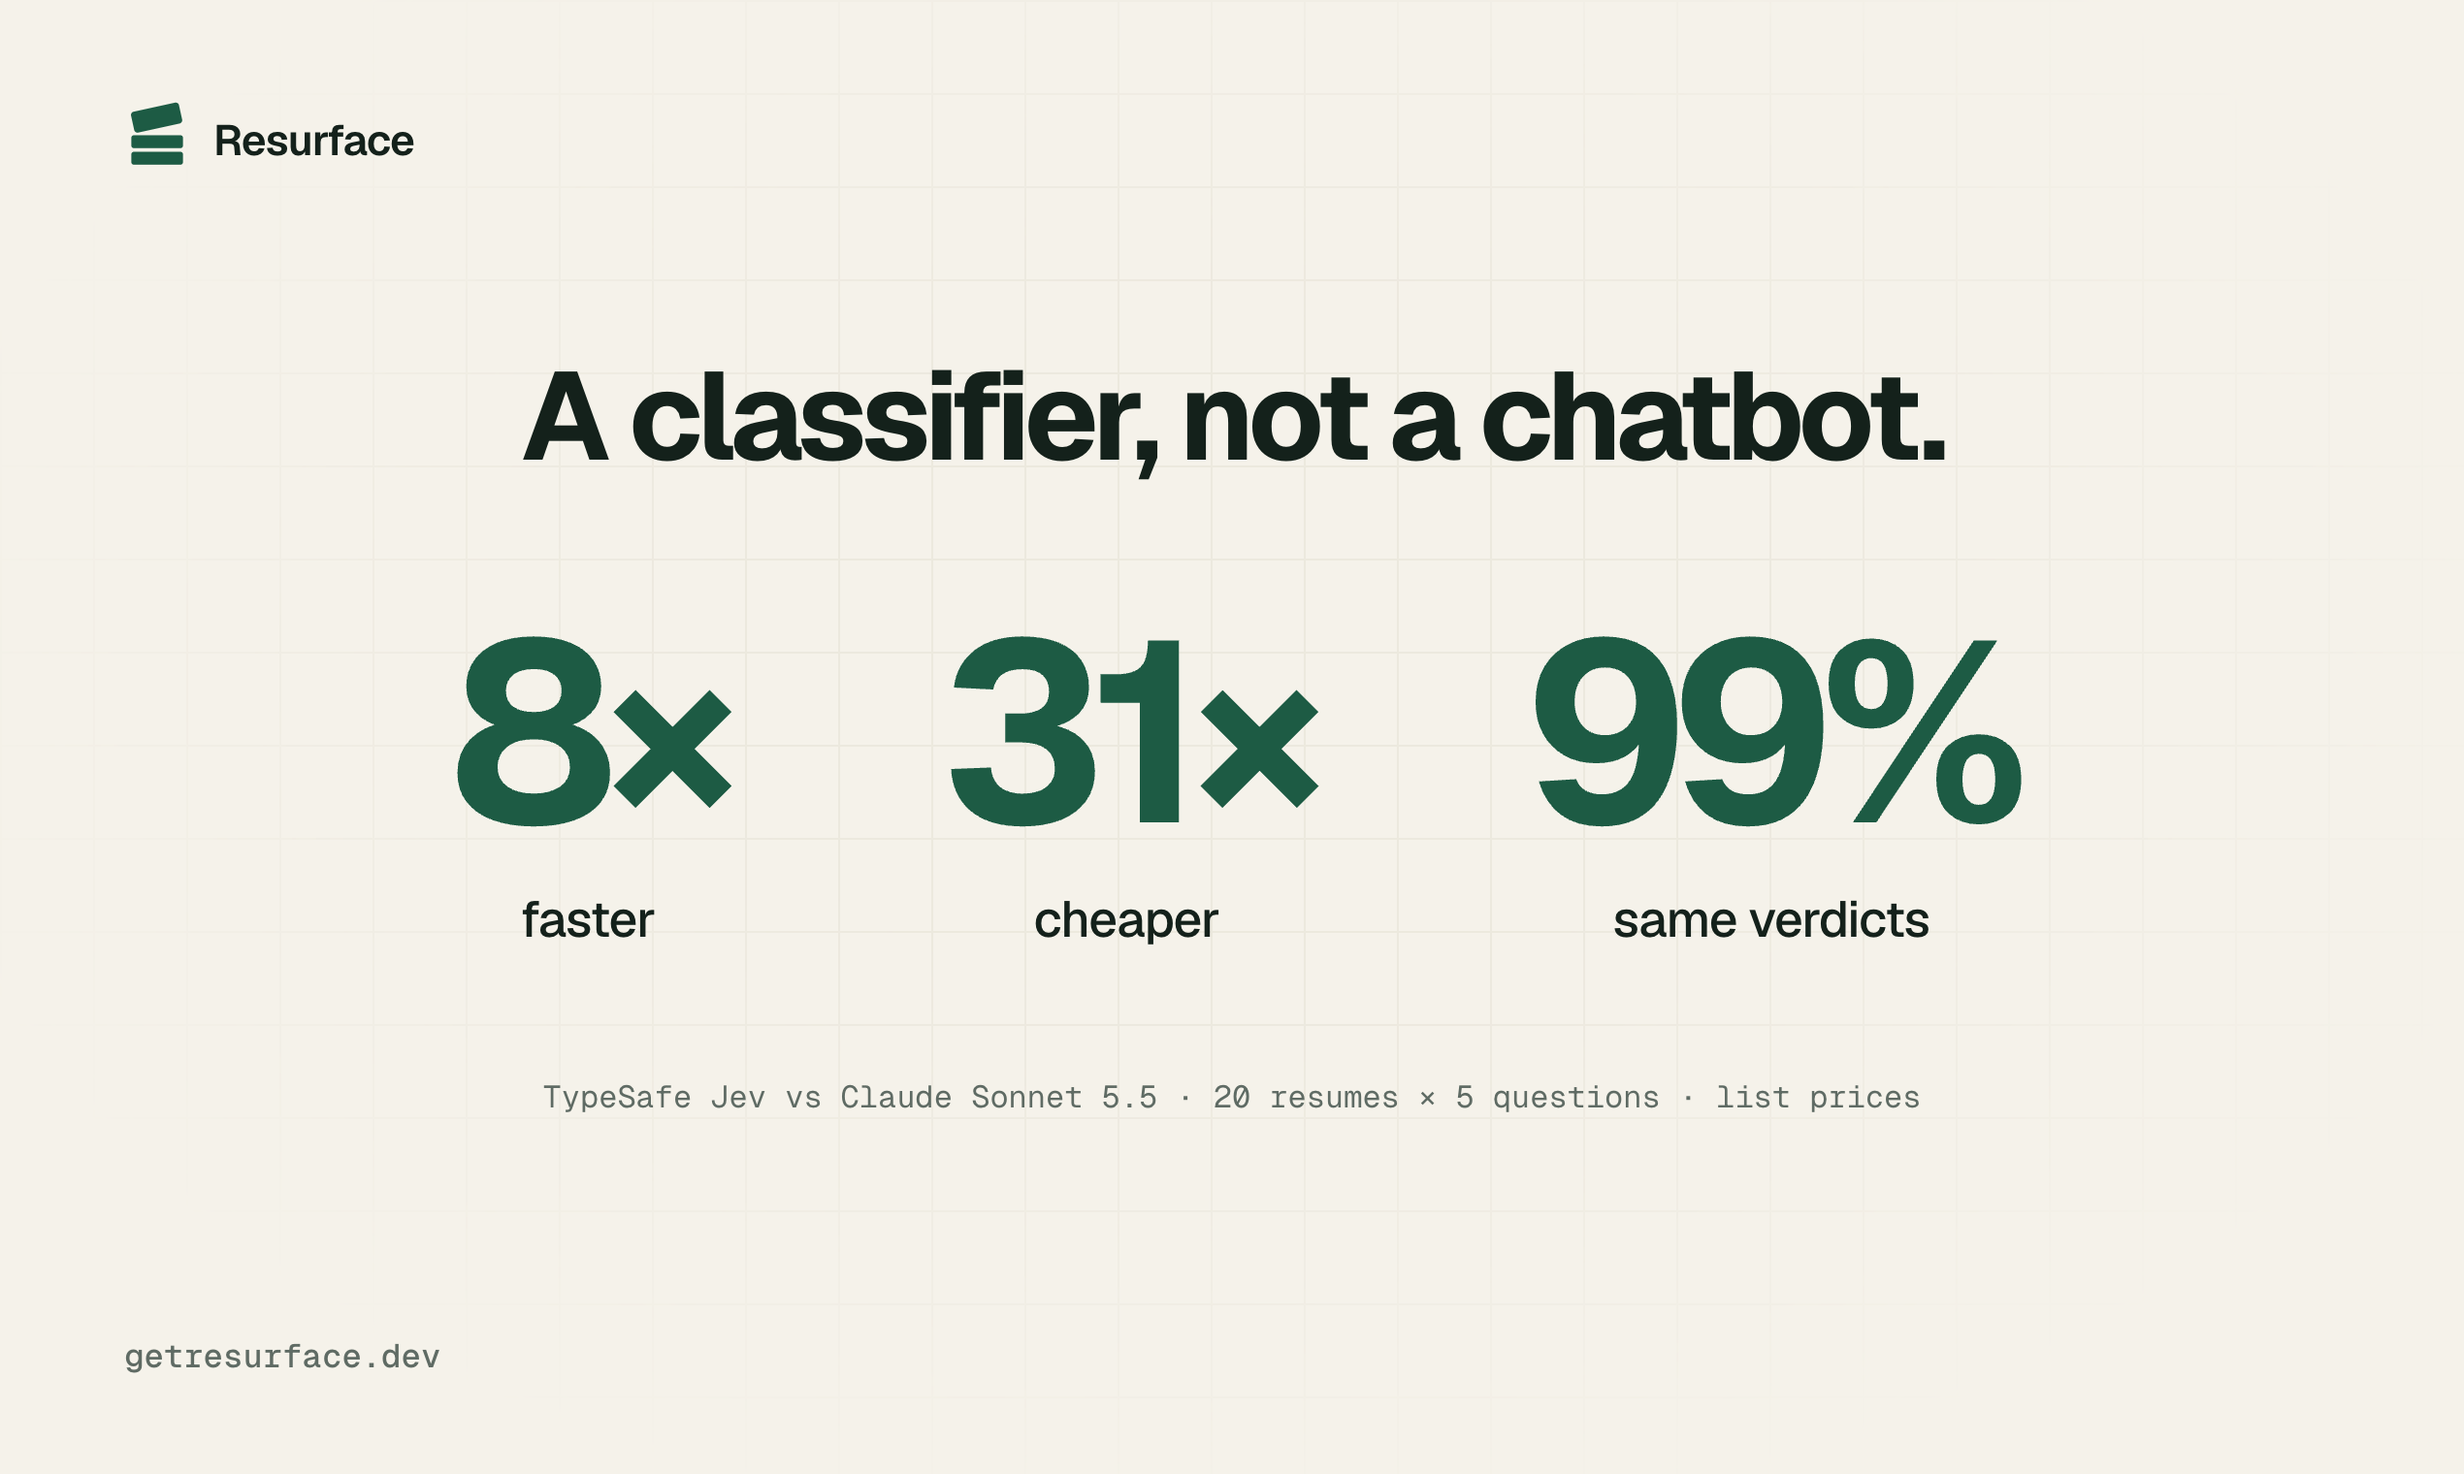
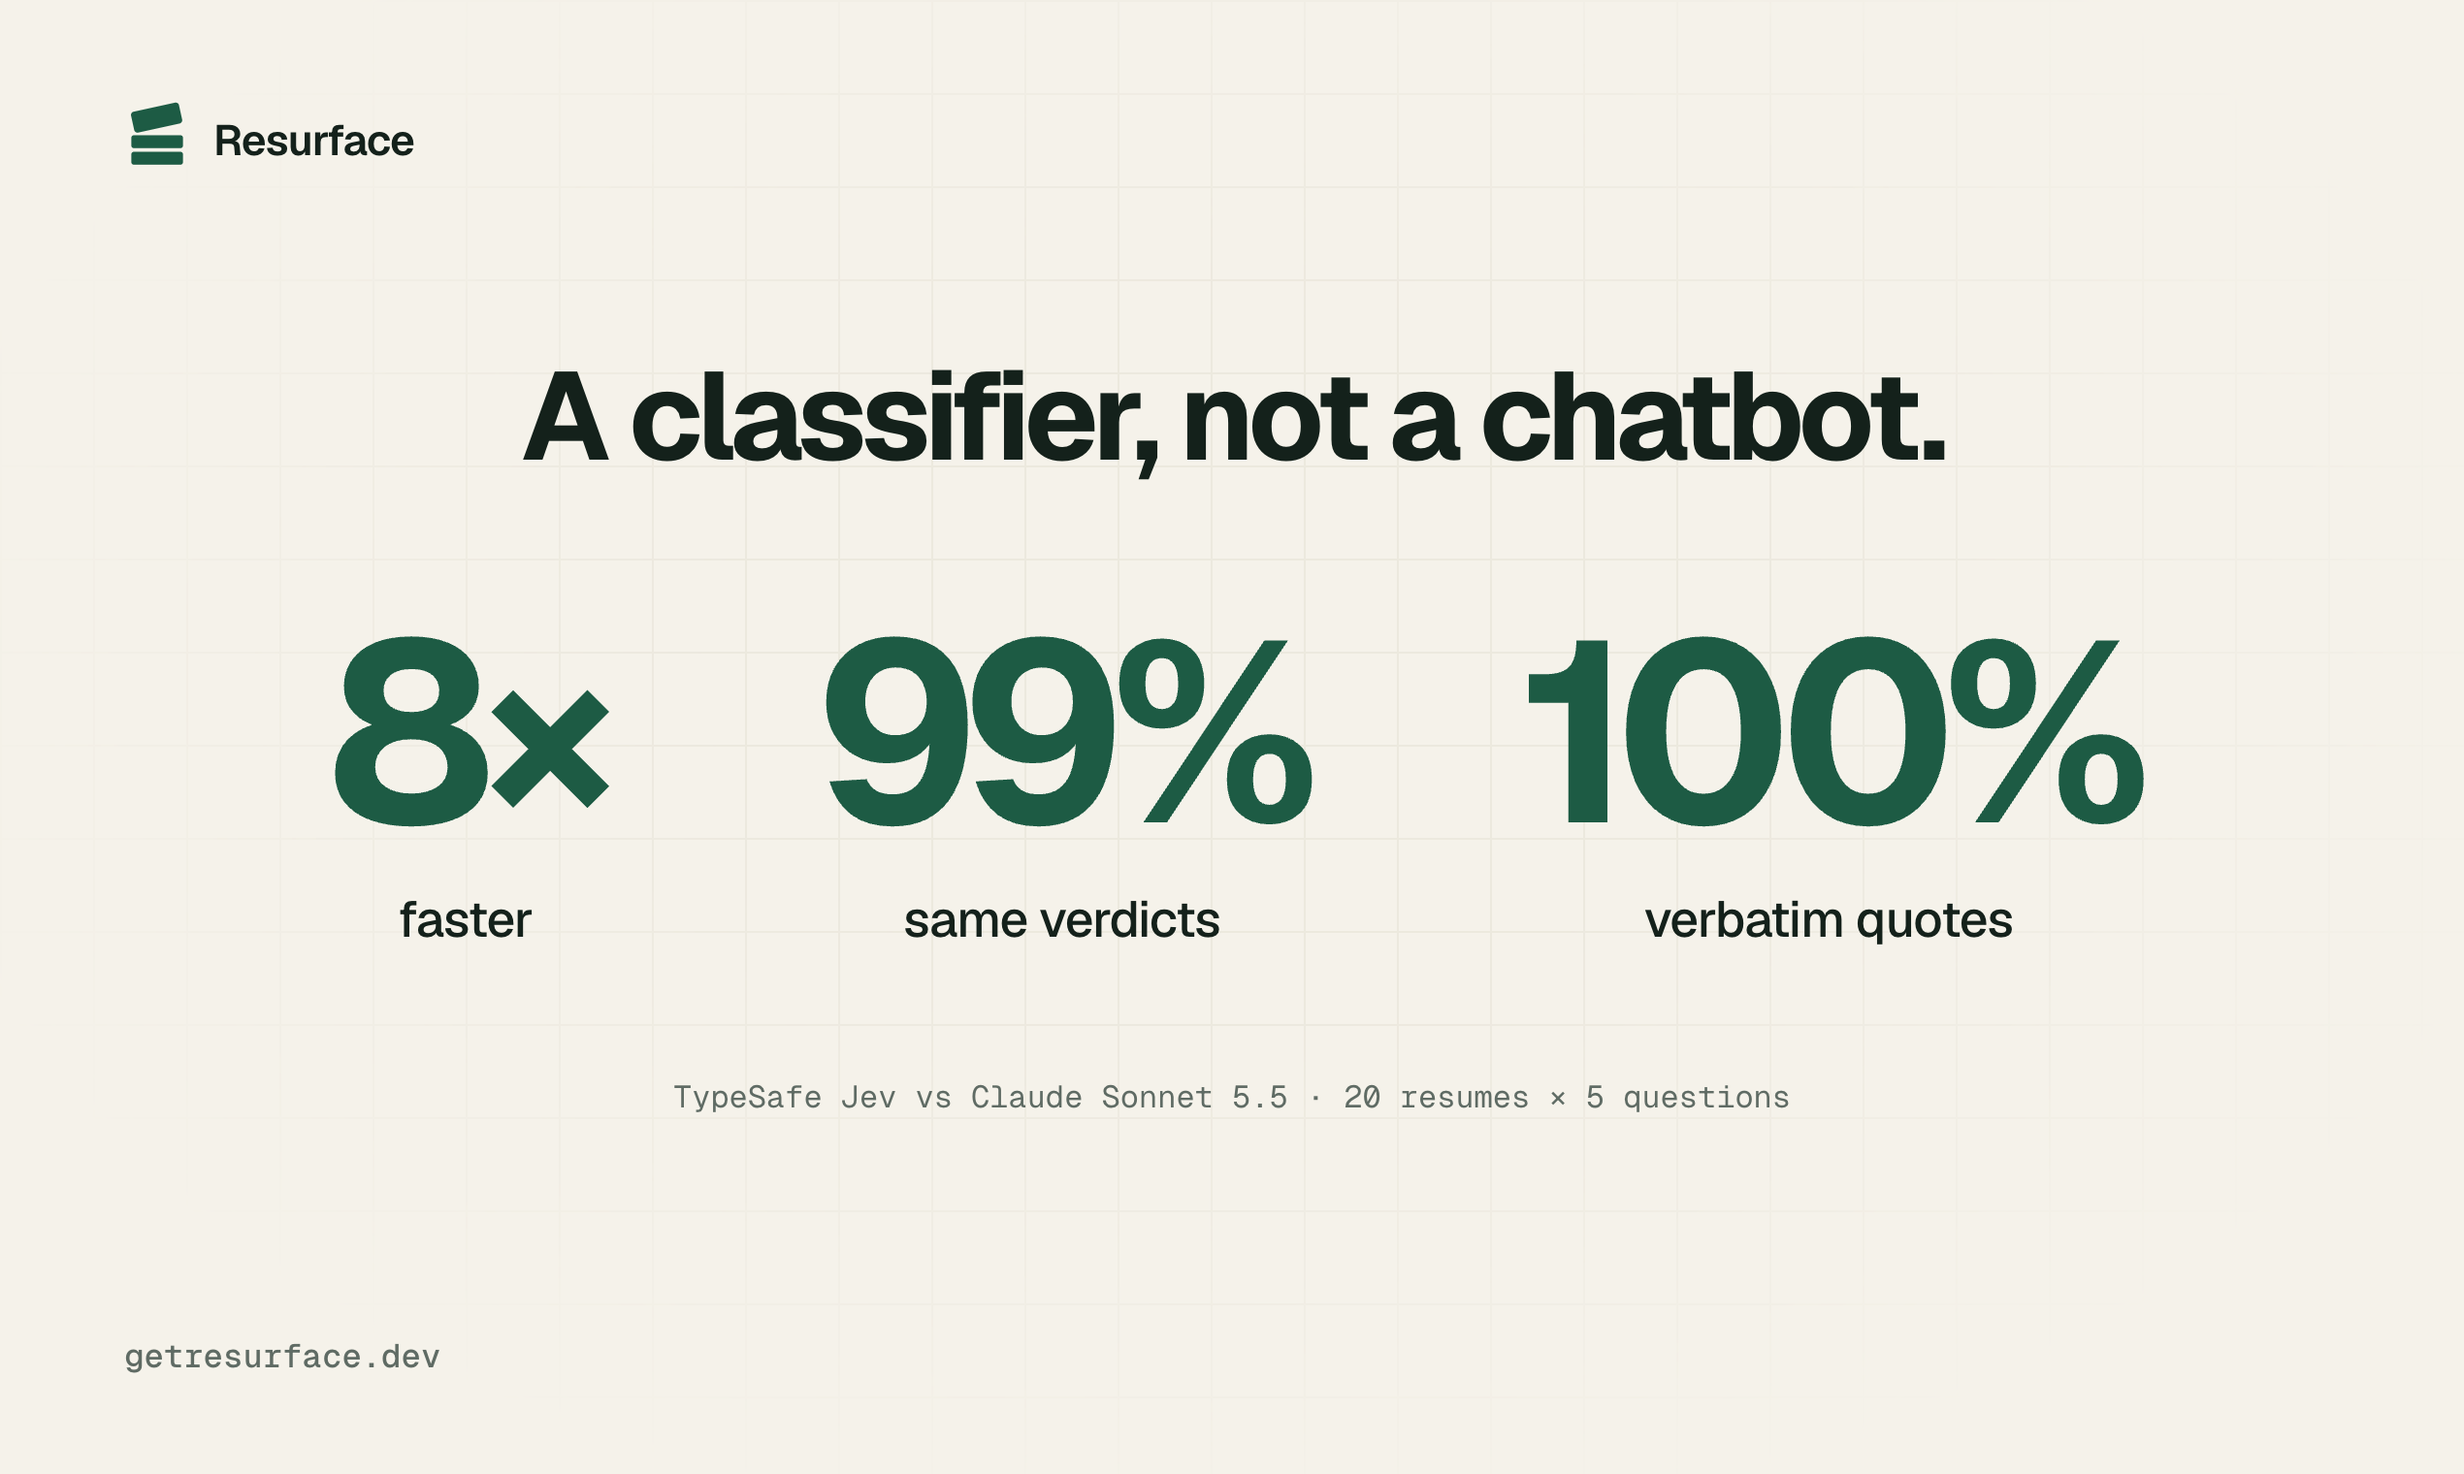
Launch kit: match the live Product Hunt texts, stats slide without cost
COPY.md now holds the description and maker comment as published on
Product Hunt (no cost claim, Hunters offer, Try it, open source). The
numbers slide shows 8x faster, 99% same verdicts, 100% verbatim quotes.

diff --git a/docs/launch/producthunt/slides.html b/docs/launch/producthunt/slides.html
@@ -83,10 +83,10 @@
     <h1 style="font-size:64px">A classifier, not a chatbot.</h1>
     <div style="display:flex; gap:110px; text-align:center">
       <div><div class="num">8×</div><div class="lab">faster</div></div>
-      <div><div class="num">31×</div><div class="lab">cheaper</div></div>
       <div><div class="num">99%</div><div class="lab">same verdicts</div></div>
+      <div><div class="num">100%</div><div class="lab">verbatim quotes</div></div>
     </div>
-    <p class="foot">TypeSafe Jev vs Claude Sonnet 5.5 · 20 resumes × 5 questions · list prices</p>
+    <p class="foot">TypeSafe Jev vs Claude Sonnet 5.5 · 20 resumes × 5 questions</p>
   </div>
   <div class="url">getresurface.dev</div>
 </section>

diff --git a/docs/launch/producthunt/COPY.md b/docs/launch/producthunt/COPY.md
@@ -3,27 +3,28 @@
 **Name:** Resurface
 **Tagline (≤60):** Score any resume against any job, with quoted evidence
 **Link:** https://getresurface.dev
-**Also:** https://github.com/dolevhayut/resurface (open source demo)
+**Also:** https://github.com/dolevhayut/resurface (open source)
 **Topics:** Human Resources · Developer Tools · Artificial Intelligence · API
-**Pricing:** Paid with a free plan (50 free scores, then $0.10 per resume)
+**Pricing:** Paid with a free plan (50 free scores, 100 for Hunters; then packs from $10 per 100 scores)
 
-**Description (≤260):**
-An API for recruiting tools. Send a job description and a resume (PDF, DOCX, HTML or TXT); get a 0–100 score, a verdict for each screening question and the exact resume line behind it. 50 free scores, then $0.10.
+**Description (≤500):**
+An API for recruiting tools. Send a job description and a resume (PDF, DOCX, HTML or TXT); get a 0–100 score, a verdict for each screening question and the exact resume line behind it. An LLM writes the questions once; a classification model (TypeSafe Jev) answers them for every resume, 8× faster than an LLM, with every quote copied from the resume. Try it in the browser, no code. 50 free scores (100 for Hunters). Open source on GitHub.
 
 **Maker comment:**
 Hi Product Hunt 👋
 
-Most companies have tens of thousands of resumes in their ATS that nobody searches again. I wanted to rescore them for every new role without paying LLM prices for every resume, and without trusting summaries a model wrote.
+Most companies have tens of thousands of resumes in their ATS that nobody searches again. I wanted to rescore them for every new role, fast, and without trusting summaries a model wrote.
 
 Resurface splits the work in two:
 1. An LLM reads the job description once and writes 6–8 atomic screening questions.
 2. A classification model (TypeSafe Jev) answers them for every resume and selects the line that proves each answer. The evidence is a quote from the resume, never generated text.
 
-In my benchmark against Claude Sonnet 5.5 (20 resumes × 5 questions, list prices) it was 8× faster and 31× cheaper, with 99% of verdicts the same. The script is in the repo, so you can check the numbers.
+In my benchmark against Claude Sonnet 5.5 (20 resumes × 5 questions) it was 8× faster per resume, with 99% of verdicts the same. The script is in the repo, so you can check the numbers.
 
-• API: 50 free scores, then $0.10 per resume
-• PDF, DOCX, HTML, TXT, in Hebrew and English
-• Open-source demo with 100 fictional resumes: github.com/dolevhayut/resurface
+• Try it without code: sign up and open "Try it" in the dashboard. Sample resumes are ready.
+• Hunters get 100 free scores instead of 50 this week.
+• API for PDF, DOCX, HTML or TXT, then packs from $10 per 100 scores.
+• Open source with 100 fictional resumes: github.com/dolevhayut/resurface
 
 Next: ATS integrations (Greenhouse, Ashby, JobAdder). Which one would you connect first?
 
